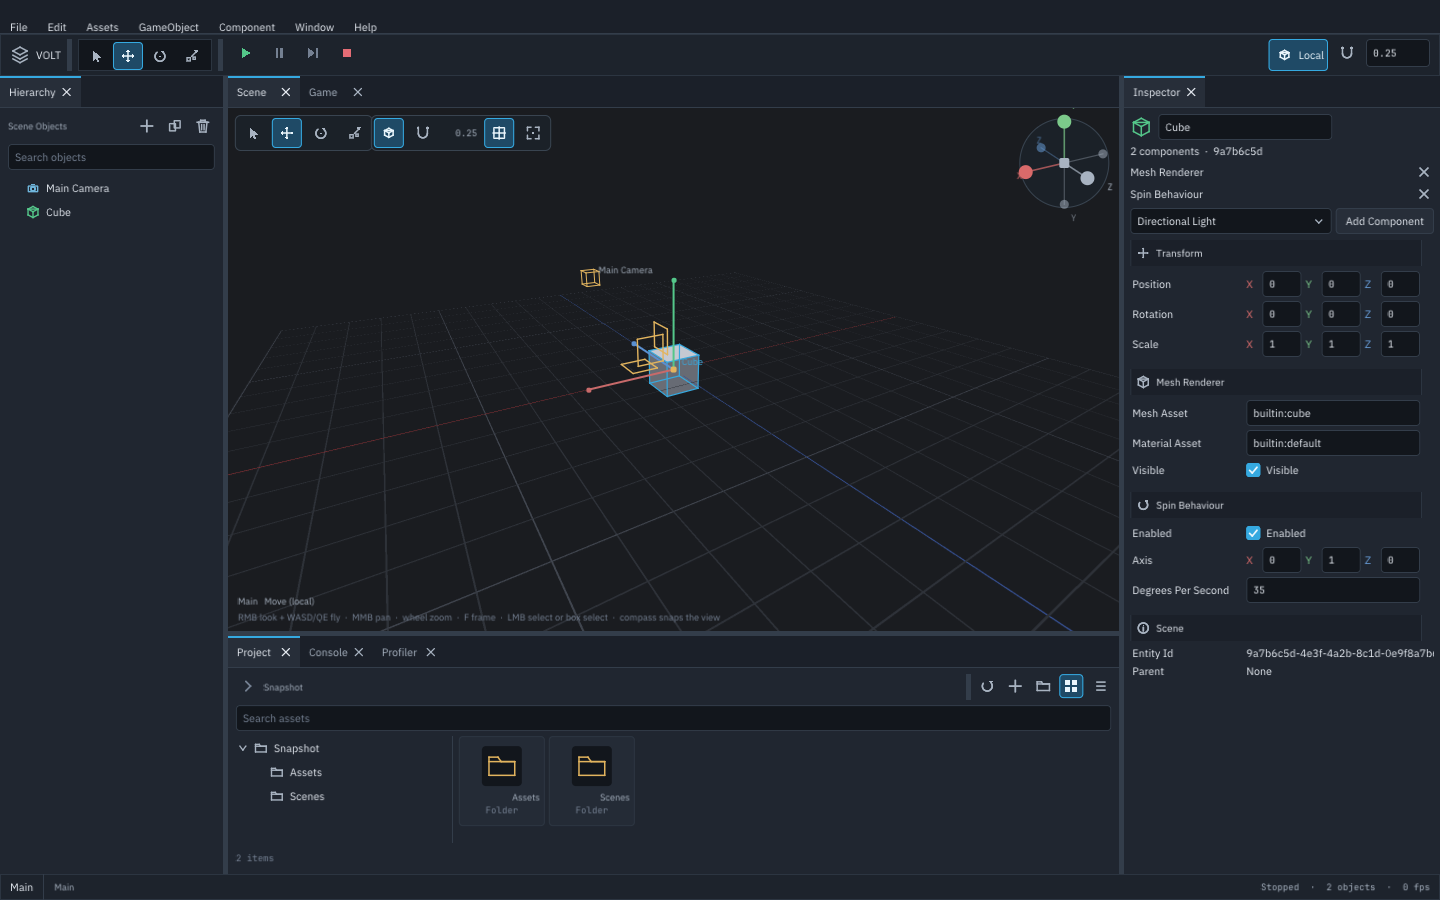
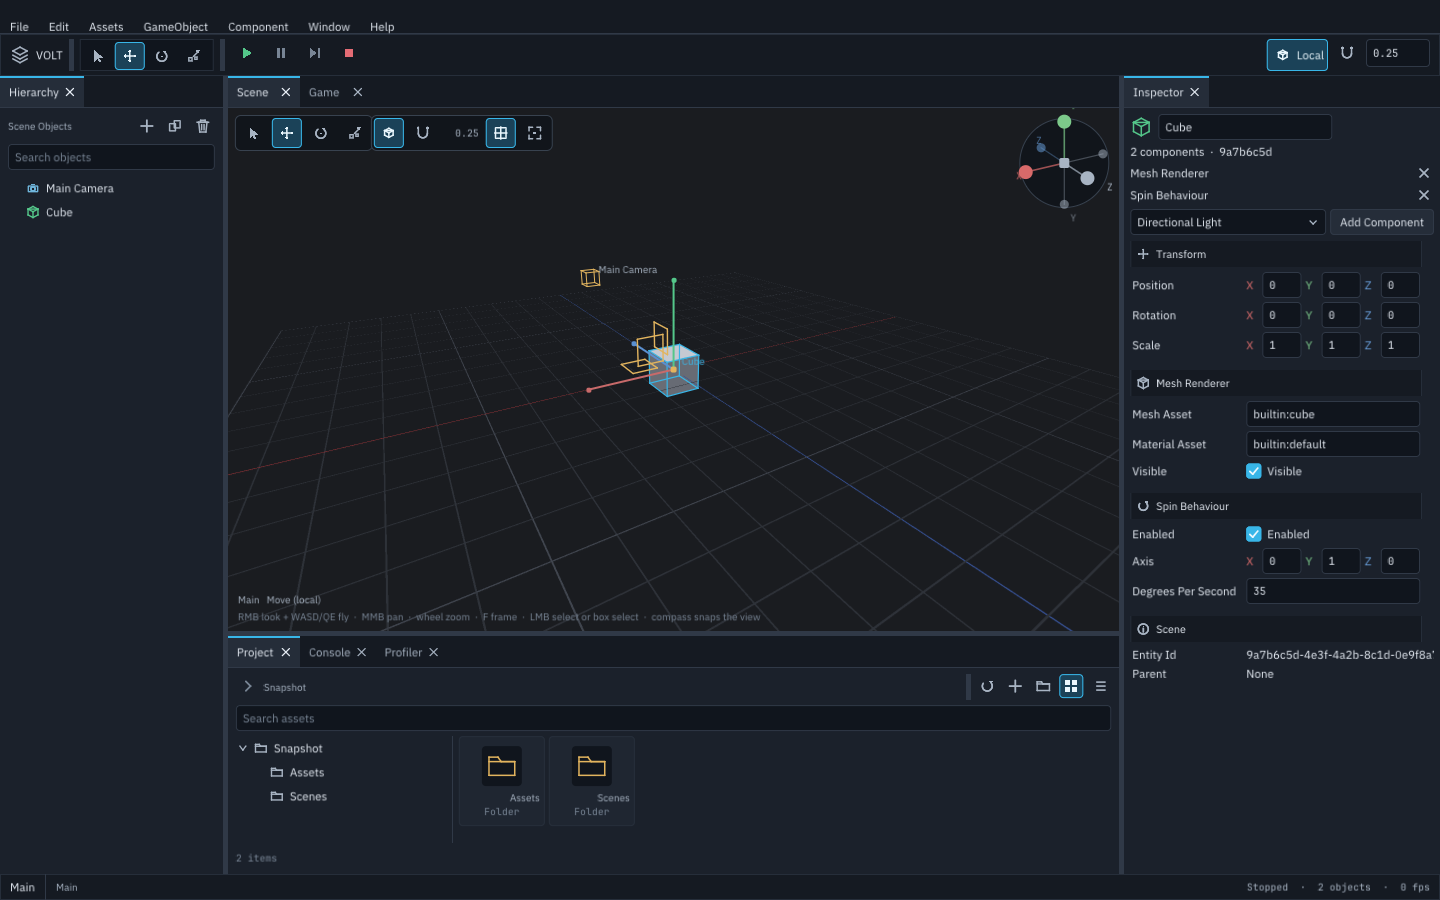
style(editor): deepen the charcoal theme and correct sRGB output
The UI emitted palette bytes straight to an sRGB swapchain, so the
framebuffer encoded every surface a second time and the editor painted
much brighter than the palette it declared. The fragment shader now
decodes authored sRGB to linear when the target format applies the
transfer function, and passes bytes through on a UNORM fallback. The
palette moves to the near-black charcoal scheme with larger type, so
panels separate without washing out.

🤖 Generated with Codebuff

diff --git a/src/Volt.Ui/Styling/UiPalette.cs b/src/Volt.Ui/Styling/UiPalette.cs
@@ -17,49 +17,55 @@ namespace Volt.Ui.Styling;
 /// than the panels that host them; that gradient is what gives the
 /// interface depth without shadows or gradients.
 /// </para>
+/// <para>
+/// Values are authored in sRGB, matching how they are measured against
+/// a screenshot. The renderer decodes them when the framebuffer format
+/// applies the sRGB transfer function, so these numbers are the bytes
+/// a developer sees rather than linear-light intermediates.
+/// </para>
 /// </remarks>
 public sealed record UiPalette
 {
 	// Chrome: window background, menu bar, toolbars, status bar.
 
-	public UiColor WindowBackground { get; init; } = UiColor.FromRgb(0x171B22);
+	public UiColor WindowBackground { get; init; } = UiColor.FromRgb(0x11151C);
 
-	public UiColor Chrome { get; init; } = UiColor.FromRgb(0x1D232C);
+	public UiColor Chrome { get; init; } = UiColor.FromRgb(0x151A22);
 
-	public UiColor ChromeBorder { get; init; } = UiColor.FromRgb(0x2C3541);
+	public UiColor ChromeBorder { get; init; } = UiColor.FromRgb(0x262E3A);
 
 	// Panels and containers.
 
-	public UiColor Surface { get; init; } = UiColor.FromRgb(0x202630);
+	public UiColor Surface { get; init; } = UiColor.FromRgb(0x1B212B);
 
-	public UiColor SurfaceRaised { get; init; } = UiColor.FromRgb(0x272E39);
+	public UiColor SurfaceRaised { get; init; } = UiColor.FromRgb(0x252D39);
 
-	public UiColor SurfaceOverlay { get; init; } = UiColor.FromRgb(0x2A3340);
+	public UiColor SurfaceOverlay { get; init; } = UiColor.FromRgb(0x29313D);
 
 	/// <summary>
 	/// Gets the fill of a panel header or tab strip.
 	/// </summary>
-	public UiColor Header { get; init; } = UiColor.FromRgb(0x1B2029);
+	public UiColor Header { get; init; } = UiColor.FromRgb(0x151A22);
 
 	/// <summary>
 	/// Gets the fill of a sunken area: the scene viewport, list wells,
 	/// and progress tracks.
 	/// </summary>
-	public UiColor Well { get; init; } = UiColor.FromRgb(0x12161C);
+	public UiColor Well { get; init; } = UiColor.FromRgb(0x10151D);
 
-	public UiColor WellBorder { get; init; } = UiColor.FromRgb(0x2A323D);
+	public UiColor WellBorder { get; init; } = UiColor.FromRgb(0x252D39);
 
-	public UiColor Border { get; init; } = UiColor.FromRgb(0x333D4A);
+	public UiColor Border { get; init; } = UiColor.FromRgb(0x303947);
 
-	public UiColor BorderStrong { get; init; } = UiColor.FromRgb(0x44505F);
+	public UiColor BorderStrong { get; init; } = UiColor.FromRgb(0x42505F);
 
 	// Text.
 
-	public UiColor Text { get; init; } = UiColor.FromRgb(0xE5EAF1);
+	public UiColor Text { get; init; } = UiColor.FromRgb(0xE7EDF5);
 
-	public UiColor TextMuted { get; init; } = UiColor.FromRgb(0xA8B3C1);
+	public UiColor TextMuted { get; init; } = UiColor.FromRgb(0xA8B4C3);
 
-	public UiColor TextDisabled { get; init; } = UiColor.FromRgb(0x748092);
+	public UiColor TextDisabled { get; init; } = UiColor.FromRgb(0x788595);
 
 	/// <summary>
 	/// Gets the text color that stays legible on the accent fill.
@@ -68,38 +74,38 @@ public sealed record UiPalette
 
 	// Accent and interaction.
 
-	public UiColor Accent { get; init; } = UiColor.FromRgb(0x35A9E0);
+	public UiColor Accent { get; init; } = UiColor.FromRgb(0x38B6E8);
 
-	public UiColor AccentHover { get; init; } = UiColor.FromRgb(0x54BCEA);
+	public UiColor AccentHover { get; init; } = UiColor.FromRgb(0x55C6F2);
 
-	public UiColor AccentPressed { get; init; } = UiColor.FromRgb(0x2A8FC0);
+	public UiColor AccentPressed { get; init; } = UiColor.FromRgb(0x2B93BF);
 
 	/// <summary>
 	/// Gets the fill of an activated toolbar control.
 	/// </summary>
-	public UiColor AccentSurface { get; init; } = UiColor.FromRgb(0x1F4A66);
+	public UiColor AccentSurface { get; init; } = UiColor.FromRgb(0x1B4258);
 
-	public UiColor AccentText { get; init; } = UiColor.FromRgb(0xEAF6FC);
+	public UiColor AccentText { get; init; } = UiColor.FromRgb(0xEAF7FD);
 
-	public UiColor Selection { get; init; } = UiColor.FromRgb(0x285B84);
+	public UiColor Selection { get; init; } = UiColor.FromRgb(0x245777);
 
-	public UiColor SelectionInactive { get; init; } = UiColor.FromRgb(0x2C3947);
+	public UiColor SelectionInactive { get; init; } = UiColor.FromRgb(0x2A3340);
 
-	public UiColor Hover { get; init; } = UiColor.FromRgb(0x313A47);
+	public UiColor Hover { get; init; } = UiColor.FromRgb(0x303B49);
 
-	public UiColor Pressed { get; init; } = UiColor.FromRgb(0x3B4655);
+	public UiColor Pressed { get; init; } = UiColor.FromRgb(0x3A4656);
 
 	/// <summary>
 	/// Gets the focus ring color drawn around the focused control.
 	/// </summary>
-	public UiColor FocusRing { get; init; } = UiColor.FromRgb(0x35A9E0);
+	public UiColor FocusRing { get; init; } = UiColor.FromRgb(0x38B6E8);
 
 	/// <summary>
 	/// Gets the fill of an asset tile.
 	/// </summary>
-	public UiColor Tile { get; init; } = UiColor.FromRgb(0x242B36);
+	public UiColor Tile { get; init; } = UiColor.FromRgb(0x1F2631);
 
-	public UiColor TileHover { get; init; } = UiColor.FromRgb(0x2C3542);
+	public UiColor TileHover { get; init; } = UiColor.FromRgb(0x28313E);
 
 	// Status.
 
@@ -113,7 +119,7 @@ public sealed record UiPalette
 
 	// Viewport and gizmos.
 
-	public UiColor Grid { get; init; } = UiColor.FromRgb(0x2A323D);
+	public UiColor Grid { get; init; } = UiColor.FromRgb(0x252D39);
 
 	public UiColor GridAxisX { get; init; } = UiColor.FromRgb(0xC86A6A);
 
@@ -131,15 +137,15 @@ public sealed record UiPalette
 	/// <summary>
 	/// Gets the translucent fill behind floating viewport controls.
 	/// </summary>
-	public UiColor Overlay { get; init; } = UiColor.FromArgb(0xE61B2129);
+	public UiColor Overlay { get; init; } = UiColor.FromArgb(0xE810141A);
 
-	public UiColor OverlayBorder { get; init; } = UiColor.FromRgb(0x394450);
+	public UiColor OverlayBorder { get; init; } = UiColor.FromRgb(0x38424F);
 
 	public UiColor Shadow { get; init; } = UiColor.FromArgb(0x88000000);
 
-	public UiColor ScrollThumb { get; init; } = UiColor.FromRgb(0x3B4655);
+	public UiColor ScrollThumb { get; init; } = UiColor.FromRgb(0x38414E);
 
-	public UiColor ScrollThumbHover { get; init; } = UiColor.FromRgb(0x4C5868);
+	public UiColor ScrollThumbHover { get; init; } = UiColor.FromRgb(0x4A5563);
 
 	public static UiPalette Dark => new();
 }

diff --git a/src/Volt.Ui.Vulkan/VulkanUiRenderer.cs b/src/Volt.Ui.Vulkan/VulkanUiRenderer.cs
@@ -66,6 +66,10 @@ public sealed unsafe class VulkanUiRenderer : IDisposable
 	private readonly Dictionary<int, ImageBinding> _images = [];
 	private UiVertex[] _clipSpaceVertices = [];
 
+	// 1 when the target applies the sRGB transfer function on write, so
+	// the fragment shader must decode its sRGB-authored colours first.
+	private readonly float _srgbTarget;
+
 	private RenderPass _renderPass;
 	private PipelineLayout _pipelineLayout;
 	private Pipeline _pipeline;
@@ -117,6 +121,7 @@ public sealed unsafe class VulkanUiRenderer : IDisposable
 		_physicalDevice = physicalDevice;
 		_api = instance.Api;
 		_format = swapchain.ImageFormat;
+		_srgbTarget = UiSurfaceColorSpace.IsSrgb(_format) ? 1f : 0f;
 		_extent = swapchain.Extent;
 		_framebuffers = new Framebuffer[imageViews.Count];
 		_vertexBuffers = new VulkanBuffer[FramesInFlight];
@@ -473,7 +478,8 @@ public sealed unsafe class VulkanUiRenderer : IDisposable
 
 				UiPushConstants constants = new(
 					resolved.Layer,
-					resolved.ImageMode);
+					resolved.ImageMode,
+					_srgbTarget);
 
 				_api.CmdPushConstants(
 					commandBuffer,
@@ -893,7 +899,7 @@ public sealed unsafe class VulkanUiRenderer : IDisposable
 	/// <summary>
 	/// Push-constant size: the atlas layer and the image-mode flag.
 	/// </summary>
-	private const uint PushConstantBytes = 2 * sizeof(float);
+	private const uint PushConstantBytes = 3 * sizeof(float);
 
 	private PipelineLayout CreatePipelineLayout()
 	{
@@ -1592,11 +1598,16 @@ public sealed unsafe class VulkanUiRenderer : IDisposable
 	{
 		public readonly float Layer;
 		public readonly float ImageMode;
+		public readonly float SrgbTarget;
 
-		public UiPushConstants(float layer, float imageMode)
+		public UiPushConstants(
+			float layer,
+			float imageMode,
+			float srgbTarget)
 		{
 			Layer = layer;
 			ImageMode = imageMode;
+			SrgbTarget = srgbTarget;
 		}
 	}
 

diff --git a/src/Volt.Ui.Vulkan/UiSurfaceColorSpace.cs b/src/Volt.Ui.Vulkan/UiSurfaceColorSpace.cs
@@ -1,0 +1,37 @@
+using Silk.NET.Vulkan;
+
+namespace Volt.Ui.Vulkan;
+
+/// <summary>
+/// Describes how a UI render target encodes colour.
+/// </summary>
+/// <remarks>
+/// <para>
+/// The UI palette, glyph coverage, and image texels are authored in
+/// sRGB. A framebuffer whose format carries the sRGB transfer function
+/// expects the fragment shader to emit linear values and encodes them
+/// on write, so <see cref="VulkanUiRenderer"/> decodes its colours
+/// before blending when this returns <see langword="true"/>.
+/// </para>
+/// <para>
+/// When the surface only offers a UNORM format, the stored values are
+/// display-referred already and must pass through untouched. That is
+/// why this is a property of the chosen format rather than a constant
+/// in the shader: darkening the palette to compensate for a double
+/// gamma would break the UNORM fallback.
+/// </para>
+/// </remarks>
+public static class UiSurfaceColorSpace
+{
+	/// <summary>
+	/// Gets whether writes to this format apply the sRGB transfer
+	/// function.
+	/// </summary>
+	public static bool IsSrgb(Format format)
+	{
+		return format is
+			Format.B8G8R8A8Srgb or
+			Format.R8G8B8A8Srgb or
+			Format.A8B8G8R8SrgbPack32;
+	}
+}

diff --git a/tests/Volt.Ui.Vulkan.Tests/UiSurfaceColorSpaceTests.cs b/tests/Volt.Ui.Vulkan.Tests/UiSurfaceColorSpaceTests.cs
@@ -1,0 +1,37 @@
+using Silk.NET.Vulkan;
+using Volt.Ui.Vulkan;
+
+namespace Volt.Ui.Vulkan.Tests;
+
+/// <summary>
+/// Covers the target-format decision that drives sRGB decoding in the
+/// UI fragment shader.
+/// </summary>
+/// <remarks>
+/// The palette is authored in sRGB. A framebuffer that already applies
+/// the transfer function on write must receive linear values, or every
+/// surface is encoded twice and renders far brighter than its palette.
+/// A UNORM fallback must receive the authored bytes untouched. These
+/// assertions pin both halves of that decision without needing a device.
+/// </remarks>
+public sealed class UiSurfaceColorSpaceTests
+{
+	[Theory]
+	[InlineData(Format.B8G8R8A8Srgb)]
+	[InlineData(Format.R8G8B8A8Srgb)]
+	[InlineData(Format.A8B8G8R8SrgbPack32)]
+	public void SrgbTargets_RequireDecoding(Format format)
+	{
+		Assert.True(UiSurfaceColorSpace.IsSrgb(format));
+	}
+
+	[Theory]
+	[InlineData(Format.B8G8R8A8Unorm)]
+	[InlineData(Format.R8G8B8A8Unorm)]
+	[InlineData(Format.R16G16B16A16Sfloat)]
+	[InlineData(Format.Undefined)]
+	public void OtherTargets_PassAuthoredBytesThrough(Format format)
+	{
+		Assert.False(UiSurfaceColorSpace.IsSrgb(format));
+	}
+}

diff --git a/src/Volt.Ui/Text/UiFontSet.cs b/src/Volt.Ui/Text/UiFontSet.cs
@@ -38,14 +38,14 @@ public sealed class UiFontSet
 
 		float raster = dpiScale * uiScale;
 
-		Small = new UiFont(UiFontKind.Sans, 12f, raster);
-		Body = new UiFont(UiFontKind.Sans, 14f, raster);
-		Large = new UiFont(UiFontKind.Sans, 16f, raster);
-		Heading = new UiFont(UiFontKind.Sans, 18f, raster);
-		Title = new UiFont(UiFontKind.Sans, 22f, raster);
-		PanelHeader = new UiFont(UiFontKind.Sans, 13f, raster);
-		MonoSmall = new UiFont(UiFontKind.Monospace, 12f, raster);
-		Mono = new UiFont(UiFontKind.Monospace, 13f, raster);
+		Small = new UiFont(UiFontKind.Sans, 13f, raster);
+		Body = new UiFont(UiFontKind.Sans, 15f, raster);
+		Large = new UiFont(UiFontKind.Sans, 17f, raster);
+		Heading = new UiFont(UiFontKind.Sans, 19f, raster);
+		Title = new UiFont(UiFontKind.Sans, 23f, raster);
+		PanelHeader = new UiFont(UiFontKind.Sans, 14f, raster);
+		MonoSmall = new UiFont(UiFontKind.Monospace, 13f, raster);
+		Mono = new UiFont(UiFontKind.Monospace, 14f, raster);
 	}
 
 	public float DpiScale { get; }
